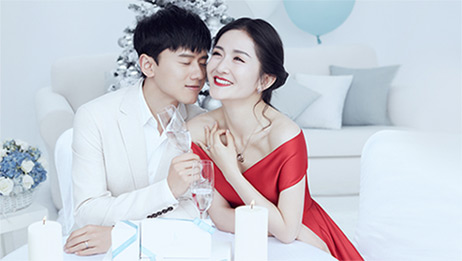
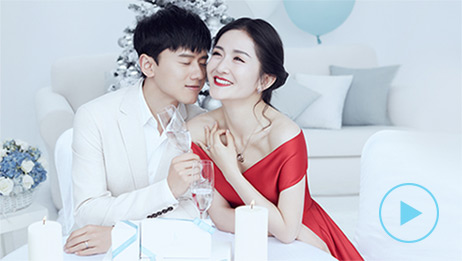
调整零售价格 调整视频播放js效果 调整其他细节 添加跟踪代码

Changed region(s): [[0.8182, 0.705, 0.9394, 0.9502], [0.9091, 0.7663, 0.9697, 0.9195]]

diff --git a/dist/pt_christmas/ending_pc.html b/dist/pt_christmas/ending_pc.html
@@ -23,70 +23,72 @@
         <div class="wapper">
             <div id="logo"></div>
             <div id="videoAndDesc">
-                <div id="videoFrame"></div>
+                <a href="javascript:void(0);" id="videoFrame">
+                    
+                </a>
                 <div id="desc"></div>
             </div>
             <div id="products">
                 <div class="product" id="pdt1">
-                    <a href="https://detail.tmall.com/item.htm?spm=a1z10.1-b-s.w11740123-15089746887.11.6u1T6c&id=44620240912&skuId=3244661233131" target="_blank" class="block">
+                    <a id="pdtLink1" href="https://detail.tmall.com/item.htm?spm=a1z10.1-b-s.w11740123-15089746887.11.6u1T6c&id=44620240912&skuId=3244661233131" target="_blank" class="block">
                         <p>女王猫铂金吊坠</p>
-                        <p>参考零售价 ¥625</p>
+                        <p>参考零售价 ¥696</p>
                     </a>
                 </div>
 
                 <div class="product" id="pdt2">
-                    <a href="https://detail.tmall.com/item.htm?spm=a1z10.5-b-s.w4011-14658579317.165.bwjTGk&id=520531201728&rn=a9b52c882f18d0280d651f930befa2a2&abbucket=15&skuId=3216300326649" target="_blank" class="block">
+                    <a id="pdtLink2" href="https://detail.tmall.com/item.htm?spm=a1z10.5-b-s.w4011-14658579317.165.bwjTGk&id=520531201728&rn=a9b52c882f18d0280d651f930befa2a2&abbucket=15&skuId=3216300326649" target="_blank" class="block">
                         <p>心连心铂金吊坠</p>
-                        <p>参考零售价 ¥711</p>
+                        <p>参考零售价 ¥708</p>
                     </a>
                 </div>
 
                 <div class="product" id="pdt3">
-                    <a href="https://detail.tmall.com/item.htm?spm=a1z10.5-b.w4011-9954919894.70.Zh6s1k&id=41842497990&rn=c9cca3872c049e6075fe0367ae07ac82&abbucket=15&skuId=88293510462" target="_blank" class="block">
+                    <a id="pdtLink3" href="https://detail.tmall.com/item.htm?spm=a1z10.5-b.w4011-9954919894.70.Zh6s1k&id=41842497990&rn=c9cca3872c049e6075fe0367ae07ac82&abbucket=15&skuId=88293510462" target="_blank" class="block">
                         <p>象形系列铂金吊坠</p>
                         <p>参考零售价 ¥950</p>
                     </a>
                 </div>
                 
                 <div class="product" id="pdt4">
-                    <a href="https://detail.tmall.com/item.htm?id=537961608104" target="_blank" class="block">
+                    <a id="pdtLink4" href="https://detail.tmall.com/item.htm?id=537961608104" target="_blank" class="block">
                         <p>幻蝶铂金吊坠</p>
                         <p>参考零售价 ¥423</p>
                     </a>
                 </div>
 
                 <div class="product" id="pdt5">
-                    <a href="https://detail.tmall.com/item.htm?spm=a1z10.3-b-s.w4011-14465444976.71.MpyA1q&id=542642696842&rn=2fe99c55dea93a08c1bca95a67d5a341&abbucket=15&skuId=3426395254344" target="_blank" class="block">
+                    <a id="pdtLink5" href="https://detail.tmall.com/item.htm?spm=a1z10.3-b-s.w4011-14465444976.71.MpyA1q&id=542642696842&rn=2fe99c55dea93a08c1bca95a67d5a341&abbucket=15&skuId=3426395254344" target="_blank" class="block">
                         <p>爱的礼物系列风吟铂金套链</p>
-                        <p>参考零售价 ¥2100</p>
+                        <p>参考零售价 ¥2110</p>
                     </a>
                 </div>
 
                 <div class="product" id="pdt6">
-                    <a href="https://detail.tmall.com/item.htm?id=542618521966" target="_blank" class="block">
+                    <a id="pdtLink6" href="https://detail.tmall.com/item.htm?id=542618521966" target="_blank" class="block">
                         <p>樱花铂金吊坠</p>
-                        <p>参考零售价 ¥1548</p>
+                        <p>参考零售价 ¥1547.70</p>
                     </a>
                 </div>
 
                 <div class="product" id="pdt7">
-                    <a href="https://detail.tmall.com/item.htm?spm=a220m.1000858.1000725.17.hbiD7i&id=535816431616&skuId=3198270053232&user_id=673558948&cat_id=2&is_b=1&rn=90aa985e4df1601558860bc912174054" target="_blank" class="block">
+                    <a id="pdtLink7" href="https://detail.tmall.com/item.htm?spm=a220m.1000858.1000725.17.hbiD7i&id=535816431616&skuId=3198270053232&user_id=673558948&cat_id=2&is_b=1&rn=90aa985e4df1601558860bc912174054" target="_blank" class="block">
                         <p>皇冠锁骨铂金吊坠</p>
-                        <p>参考零售价 ¥440</p>
+                        <p>参考零售价 ¥430</p>
                     </a>
                 </div>
 
                 <div class="product" id="pdt8">
-                    <a href="https://detail.tmall.com/item.htm?spm=a1z10.3-b-s.w4011-14768600827.141.GGBeTh&id=528076652144&rn=da0fcb7c5161ac69742059aeb91970bf&abbucket=3" target="_blank" class="block">
+                    <a id="pdtLink8" href="https://detail.tmall.com/item.htm?spm=a1z10.3-b-s.w4011-14768600827.141.GGBeTh&id=528076652144&rn=da0fcb7c5161ac69742059aeb91970bf&abbucket=3" target="_blank" class="block">
                         <p>BLINK系列睛彩铂金吊坠</p>
-                        <p>参考零售价 ¥8199</p>
+                        <p>参考零售价 ¥3799</p>
                     </a>
                 </div>
                  
             </div>
 
             <div id="follow">
-                <a href="http://weibo.com/u/2618614667" target="_blank">
+                <a id="followBtn" href="http://weibo.com/u/2618614667" target="_blank">
                     <img src="img/pc_ending/follow.png" alt="">
                 </a>
             </div>
@@ -94,7 +96,33 @@
         <script src="js/vendor/jquery/jquery-3.1.0.min.js"></script>
         <script>window.jQuery || document.write('<script src="js/vendor/jquery/jquery-3.1.0.min.js"><\/script>')</script>
 
-        
+        <script>!(function(a,b,c,d,e,f){var g="",h=a.sessionStorage,i="__admaster_ta_param__",j="tmDataLayer"!==d?"&dl="+d:"";
+if(a[f]={},a[d]=a[d]||[],a[d].push({startTime:+new Date,event:"tm.js"}),h){var k=a.location.search,
+l=new RegExp("[?&]"+i+"=(.*?)(&|#|$)").exec(k)||[];l[1]&&h.setItem(i,l[1]),l=h.getItem(i),
+l&&(g="&p="+l+"&t="+ +new Date)}var m=b.createElement(c),n=b.getElementsByTagName(c)[0];m.src="//tag.cdnmaster.cn/tmjs/tm.js?id="+e+j+g,
+m.async=!0,n.parentNode.insertBefore(m,n)})(window,document,"script","tmDataLayer","TM-703468","admaster_tm");</script>
+
+        <script>    
+            $(document).ready(function(){
+                $('#videoFrame').on("click",function(){
+                    $(this).html('<iframe id="videoPlayer" frameborder="0" width="462px" height="261px" src="http://v.qq.com/iframe/player.html?vid=b00219kw5ce&tiny=0&auto=1" allowfullscreen></iframe>');
+                    _smq.push(['custom','Ending页面','点击“观看视频”']);
+                });
+
+                $('#pdtLink1').on('click',function(){_smq.push(['custom','Ending页面','点击”女王猫铂金吊坠购买“']);});
+                $('#pdtLink2').on('click',function(){_smq.push(['custom','Ending页面','点击”心连心吊坠购买“']);});
+                $('#pdtLink3').on('click',function(){_smq.push(['custom','Ending页面','点击”象形系列铂金吊坠购买“']);});
+                $('#pdtLink4').on('click',function(){_smq.push(['custom','Ending页面','点击”幻蝶铂金吊坠购买“']);});
+                $('#pdtLink5').on('click',function(){_smq.push(['custom','Ending页面','点击“爱的礼物系列风吟铂金套链购买“']);});
+                $('#pdtLink6').on('click',function(){_smq.push(['custom','Ending页面','点击“樱花铂金吊坠购买"']);});
+                $('#pdtLink7').on('click',function(){_smq.push(['custom','Ending页面','点击“皇冠锁骨铂金吊坠购买"']);});
+                $('#pdtLink8').on('click',function(){_smq.push(['custom','Ending页面','点击“BLINK系列晴彩铂金吊坠购买"']);});
+
+                $('#followBtn').on('click', function(){_smq.push(['custom','Ending页面','点击“关注Pt铂金官方微博"']);});
+            })
+        </script>
+
+
 
 
     </body>

diff --git a/src/pt_christmas/ending_pc.html b/src/pt_christmas/ending_pc.html
@@ -23,70 +23,72 @@
         <div class="wapper">
             <div id="logo"></div>
             <div id="videoAndDesc">
-                <div id="videoFrame"></div>
+                <a href="javascript:void(0);" id="videoFrame">
+                    
+                </a>
                 <div id="desc"></div>
             </div>
             <div id="products">
                 <div class="product" id="pdt1">
-                    <a href="https://detail.tmall.com/item.htm?spm=a1z10.1-b-s.w11740123-15089746887.11.6u1T6c&id=44620240912&skuId=3244661233131" target="_blank" class="block">
+                    <a id="pdtLink1" href="https://detail.tmall.com/item.htm?spm=a1z10.1-b-s.w11740123-15089746887.11.6u1T6c&id=44620240912&skuId=3244661233131" target="_blank" class="block">
                         <p>女王猫铂金吊坠</p>
-                        <p>参考零售价 ¥625</p>
+                        <p>参考零售价 ¥696</p>
                     </a>
                 </div>
 
                 <div class="product" id="pdt2">
-                    <a href="https://detail.tmall.com/item.htm?spm=a1z10.5-b-s.w4011-14658579317.165.bwjTGk&id=520531201728&rn=a9b52c882f18d0280d651f930befa2a2&abbucket=15&skuId=3216300326649" target="_blank" class="block">
+                    <a id="pdtLink2" href="https://detail.tmall.com/item.htm?spm=a1z10.5-b-s.w4011-14658579317.165.bwjTGk&id=520531201728&rn=a9b52c882f18d0280d651f930befa2a2&abbucket=15&skuId=3216300326649" target="_blank" class="block">
                         <p>心连心铂金吊坠</p>
-                        <p>参考零售价 ¥711</p>
+                        <p>参考零售价 ¥708</p>
                     </a>
                 </div>
 
                 <div class="product" id="pdt3">
-                    <a href="https://detail.tmall.com/item.htm?spm=a1z10.5-b.w4011-9954919894.70.Zh6s1k&id=41842497990&rn=c9cca3872c049e6075fe0367ae07ac82&abbucket=15&skuId=88293510462" target="_blank" class="block">
+                    <a id="pdtLink3" href="https://detail.tmall.com/item.htm?spm=a1z10.5-b.w4011-9954919894.70.Zh6s1k&id=41842497990&rn=c9cca3872c049e6075fe0367ae07ac82&abbucket=15&skuId=88293510462" target="_blank" class="block">
                         <p>象形系列铂金吊坠</p>
                         <p>参考零售价 ¥950</p>
                     </a>
                 </div>
                 
                 <div class="product" id="pdt4">
-                    <a href="https://detail.tmall.com/item.htm?id=537961608104" target="_blank" class="block">
+                    <a id="pdtLink4" href="https://detail.tmall.com/item.htm?id=537961608104" target="_blank" class="block">
                         <p>幻蝶铂金吊坠</p>
                         <p>参考零售价 ¥423</p>
                     </a>
                 </div>
 
                 <div class="product" id="pdt5">
-                    <a href="https://detail.tmall.com/item.htm?spm=a1z10.3-b-s.w4011-14465444976.71.MpyA1q&id=542642696842&rn=2fe99c55dea93a08c1bca95a67d5a341&abbucket=15&skuId=3426395254344" target="_blank" class="block">
+                    <a id="pdtLink5" href="https://detail.tmall.com/item.htm?spm=a1z10.3-b-s.w4011-14465444976.71.MpyA1q&id=542642696842&rn=2fe99c55dea93a08c1bca95a67d5a341&abbucket=15&skuId=3426395254344" target="_blank" class="block">
                         <p>爱的礼物系列风吟铂金套链</p>
-                        <p>参考零售价 ¥2100</p>
+                        <p>参考零售价 ¥2110</p>
                     </a>
                 </div>
 
                 <div class="product" id="pdt6">
-                    <a href="https://detail.tmall.com/item.htm?id=542618521966" target="_blank" class="block">
+                    <a id="pdtLink6" href="https://detail.tmall.com/item.htm?id=542618521966" target="_blank" class="block">
                         <p>樱花铂金吊坠</p>
-                        <p>参考零售价 ¥1548</p>
+                        <p>参考零售价 ¥1547.70</p>
                     </a>
                 </div>
 
                 <div class="product" id="pdt7">
-                    <a href="https://detail.tmall.com/item.htm?spm=a220m.1000858.1000725.17.hbiD7i&id=535816431616&skuId=3198270053232&user_id=673558948&cat_id=2&is_b=1&rn=90aa985e4df1601558860bc912174054" target="_blank" class="block">
+                    <a id="pdtLink7" href="https://detail.tmall.com/item.htm?spm=a220m.1000858.1000725.17.hbiD7i&id=535816431616&skuId=3198270053232&user_id=673558948&cat_id=2&is_b=1&rn=90aa985e4df1601558860bc912174054" target="_blank" class="block">
                         <p>皇冠锁骨铂金吊坠</p>
-                        <p>参考零售价 ¥440</p>
+                        <p>参考零售价 ¥430</p>
                     </a>
                 </div>
 
                 <div class="product" id="pdt8">
-                    <a href="https://detail.tmall.com/item.htm?spm=a1z10.3-b-s.w4011-14768600827.141.GGBeTh&id=528076652144&rn=da0fcb7c5161ac69742059aeb91970bf&abbucket=3" target="_blank" class="block">
+                    <a id="pdtLink8" href="https://detail.tmall.com/item.htm?spm=a1z10.3-b-s.w4011-14768600827.141.GGBeTh&id=528076652144&rn=da0fcb7c5161ac69742059aeb91970bf&abbucket=3" target="_blank" class="block">
                         <p>BLINK系列睛彩铂金吊坠</p>
-                        <p>参考零售价 ¥8199</p>
+                        <p>参考零售价 ¥3799</p>
                     </a>
                 </div>
                  
             </div>
 
             <div id="follow">
-                <a href="http://weibo.com/u/2618614667" target="_blank">
+                <a id="followBtn" href="http://weibo.com/u/2618614667" target="_blank">
                     <img src="img/pc_ending/follow.png" alt="">
                 </a>
             </div>
@@ -94,7 +96,33 @@
         <script src="js/vendor/jquery/jquery-3.1.0.min.js"></script>
         <script>window.jQuery || document.write('<script src="js/vendor/jquery/jquery-3.1.0.min.js"><\/script>')</script>
 
-        
+        <script>!(function(a,b,c,d,e,f){var g="",h=a.sessionStorage,i="__admaster_ta_param__",j="tmDataLayer"!==d?"&dl="+d:"";
+if(a[f]={},a[d]=a[d]||[],a[d].push({startTime:+new Date,event:"tm.js"}),h){var k=a.location.search,
+l=new RegExp("[?&]"+i+"=(.*?)(&|#|$)").exec(k)||[];l[1]&&h.setItem(i,l[1]),l=h.getItem(i),
+l&&(g="&p="+l+"&t="+ +new Date)}var m=b.createElement(c),n=b.getElementsByTagName(c)[0];m.src="//tag.cdnmaster.cn/tmjs/tm.js?id="+e+j+g,
+m.async=!0,n.parentNode.insertBefore(m,n)})(window,document,"script","tmDataLayer","TM-703468","admaster_tm");</script>
+
+        <script>    
+            $(document).ready(function(){
+                $('#videoFrame').on("click",function(){
+                    $(this).html('<iframe id="videoPlayer" frameborder="0" width="462px" height="261px" src="http://v.qq.com/iframe/player.html?vid=b00219kw5ce&tiny=0&auto=1" allowfullscreen></iframe>');
+                    _smq.push(['custom','Ending页面','点击“观看视频”']);
+                });
+
+                $('#pdtLink1').on('click',function(){_smq.push(['custom','Ending页面','点击”女王猫铂金吊坠购买“']);});
+                $('#pdtLink2').on('click',function(){_smq.push(['custom','Ending页面','点击”心连心吊坠购买“']);});
+                $('#pdtLink3').on('click',function(){_smq.push(['custom','Ending页面','点击”象形系列铂金吊坠购买“']);});
+                $('#pdtLink4').on('click',function(){_smq.push(['custom','Ending页面','点击”幻蝶铂金吊坠购买“']);});
+                $('#pdtLink5').on('click',function(){_smq.push(['custom','Ending页面','点击“爱的礼物系列风吟铂金套链购买“']);});
+                $('#pdtLink6').on('click',function(){_smq.push(['custom','Ending页面','点击“樱花铂金吊坠购买"']);});
+                $('#pdtLink7').on('click',function(){_smq.push(['custom','Ending页面','点击“皇冠锁骨铂金吊坠购买"']);});
+                $('#pdtLink8').on('click',function(){_smq.push(['custom','Ending页面','点击“BLINK系列晴彩铂金吊坠购买"']);});
+
+                $('#followBtn').on('click', function(){_smq.push(['custom','Ending页面','点击“关注Pt铂金官方微博"']);});
+            })
+        </script>
+
+
 
 
     </body>

diff --git a/dist/pt_christmas/css/ike/pc.css b/dist/pt_christmas/css/ike/pc.css
@@ -31,7 +31,11 @@ body .wapper{
 	width:462px;
 	height: 261px;
 	margin-left:194px;
+	display:block;
 	float:left;
+}
+#videoPlayer{
+
 }
 #desc{
 	background:url(../../img/pc_ending/word.png) no-repeat scroll;

diff --git a/src/pt_christmas/css/ike/pc.css b/src/pt_christmas/css/ike/pc.css
@@ -31,7 +31,11 @@ body .wapper{
 	width:462px;
 	height: 261px;
 	margin-left:194px;
+	display:block;
 	float:left;
+}
+#videoPlayer{
+
 }
 #desc{
 	background:url(../../img/pc_ending/word.png) no-repeat scroll;
